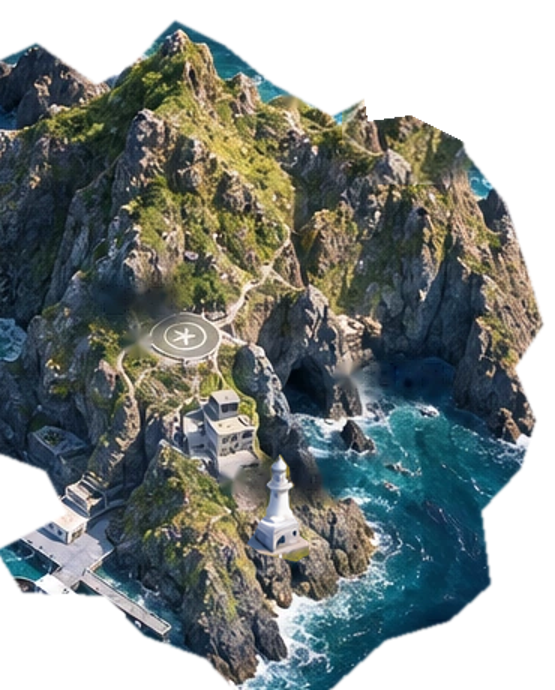
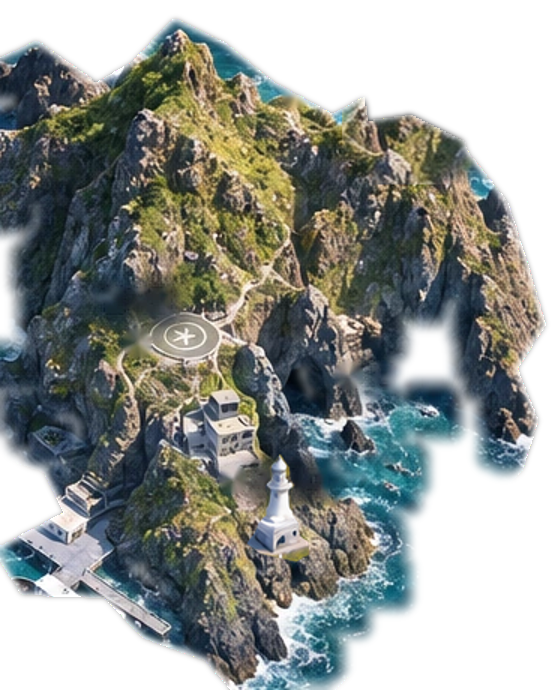
Fix lighthouse position/glow, light path start, add badges home view, live-share brag, question disputes, and facility overlay seam
- The lighthouse glow was rendering on a mountain peak, not the real
  tower. The actual building lives in the dongdo-facilities.png overlay
  (composited via facilities-overlay.json's affine transform), not the
  base art -- located its real lamp position there and moved the glow.
  Also simplified the glow to a core + soft halo, dropping the fanned
  beam wedges that read as unrealistic.
- The 500-credit Dongdo light path started at an arbitrary ring point;
  it now starts at Dongdo's summit (the topmost outline vertex) since
  every ring is a uniform scale of the same outline.
- Added the achievement badges grid to the home screen (previously only
  in My records).
- The "Share to the live chat" button now includes the player's
  nickname, correct-answer count and XP in the copied message, matching
  the updated disclaimer text (every other share stays anonymous).
- Added a "something wrong with this question?" report after answering,
  opening a small dialog that emails the question details to the
  channel's real contact address.
- The dongdo-facilities.png overlay's own baked-in sea color met the
  scene's background gradient in a hard, oddly-shaped cutout. Trimmed
  its alpha so open water beyond the coastline buffer fades out and the
  true background sea shows through instead.

diff --git a/dokdo-next/assets/app.css b/dokdo-next/assets/app.css
@@ -65,7 +65,8 @@ main{max-width:1530px;padding:30px 36px 36px;margin:auto;min-height:70vh}.sectio
 .lesson{max-width:830px;margin:auto;padding:15px 0}.lesson-top{display:flex;align-items:center;gap:20px;margin-bottom:28px}.lesson-top progress{flex:1;min-width:0;height:9px;border:0;border-radius:10px;background:#173648;overflow:hidden}.lesson-top progress::-webkit-progress-bar{background:#153144}.lesson-top progress::-webkit-progress-value{background:#f1c773;border-radius:10px}.lesson-top progress::-moz-progress-bar{background:#f1c773}.lesson-top>span{font-size:12px;color:var(--muted);white-space:nowrap}.lesson-context{display:flex;align-items:center;gap:14px;margin-bottom:22px;font-size:12px;color:#c4d5da}.pill{display:inline-flex;align-items:center;min-height:28px;padding:4px 10px;font-size:10px;border:1px solid #486762;border-radius:20px;color:#bbe0ca;background:#173730}.lesson h2{font-size:clamp(23px,3vw,33px);line-height:1.7;letter-spacing:-.05em;margin:20px 0 30px;word-break:keep-all;overflow-wrap:break-word}
 #teaching{border:1px solid #365668;border-radius:23px;background:#102c3e;padding:32px}.lesson #teaching h2{font-size:26px;margin:10px 0 22px}#teaching-text{font-size:21px;line-height:1.9;color:#d7e2e5;word-break:keep-all;margin-bottom:30px}#teaching .button{width:100%}
 .question-options{display:grid;gap:12px}.answer-option{display:flex;align-items:center;text-align:left;gap:17px;border:1px solid #35576b;border-radius:14px;min-height:68px;padding:17px 20px;background:#11293a;color:#e5ebeb;font-size:18px;line-height:1.65;word-break:keep-all}.answer-number{flex-shrink:0;display:grid;place-items:center;width:30px;height:30px;border-radius:8px;background:#254456;color:#b7cdd7;font:500 14px var(--heading)}.answer-option.correct{border-color:#91d2b7;background:#163a38;color:#e2f4e9}.answer-option.incorrect{border-color:#e69785;background:#392e34;color:#ffe7e1}.answer-option:disabled{opacity:1}.answer-mark{margin-left:auto;font-size:20px;flex-shrink:0}
-.question-feedback{margin-top:22px;padding:24px;background:#133343;border:1px solid #4b706e;border-radius:16px;line-height:1.9;font-size:16px}.question-feedback.bad{background:#332c34;border-color:#b57d74}.question-feedback h3{font-size:17px;margin-bottom:12px}.question-feedback small{font-size:11px;color:#b3c6cb;display:block;margin-top:13px}.question-actions{margin-top:20px;display:flex;justify-content:flex-end;gap:12px}.question-actions .button{min-width:170px}.question-material{background:#173747;border:1px solid #456371;border-radius:14px;padding:18px;margin-bottom:20px;font-size:16px;white-space:pre-line}
+.question-feedback{margin-top:22px;padding:24px;background:#133343;border:1px solid #4b706e;border-radius:16px;line-height:1.9;font-size:16px}.question-feedback.bad{background:#332c34;border-color:#b57d74}.question-feedback h3{font-size:17px;margin-bottom:12px}.question-feedback small{font-size:11px;color:#b3c6cb;display:block;margin-top:13px}
+.dispute-button{display:block;margin-top:10px;font-size:12px;color:#93b3bd}.question-actions{margin-top:20px;display:flex;justify-content:flex-end;gap:12px}.question-actions .button{min-width:170px}.question-material{background:#173747;border:1px solid #456371;border-radius:14px;padding:18px;margin-bottom:20px;font-size:16px;white-space:pre-line}
 .result-card{border:1px solid #4e6656;border-radius:24px;background:linear-gradient(145deg,#1a3e42,#0e2333);padding:42px;text-align:center}.result-card .result-star{font-size:48px;color:var(--gold)}.result-card h2{font-size:28px;margin:16px 0}.result-card p{color:#c9dadb;margin:14px 0}.result-card .result-score{font:500 35px var(--heading);color:var(--gold)}.result-card .button-row{justify-content:center;margin-top:26px}
 .share-row{border-top:1px solid #3a5a55;margin-top:28px;padding-top:22px}.share-row .button-row{justify-content:center;margin-top:12px}
 .species-card{display:grid;grid-template-columns:1fr 1.3fr;gap:30px;margin:26px 0;border:1px solid var(--line);background:#0d2636;border-radius:24px;padding:35px;align-items:center}.species-art{min-height:230px;border:1px solid #365568;border-radius:50% 50% 45% 45%;display:grid;place-items:center;background:radial-gradient(ellipse at center,#355f67,#143240 68%)}.species-art svg{width:90%}.species-card h2{margin:14px 0;font-size:28px}.species-card p{font-size:13px;color:#c1d1d7;line-height:1.9}.species-card .button{margin-top:18px}
@@ -74,7 +75,7 @@ main{max-width:1530px;padding:30px 36px 36px;margin:auto;min-height:70vh}.sectio
 .import-preview,.legacy-item{border:1px solid #6b7856;background:#24372e;border-radius:13px;padding:20px;margin-top:18px;font-size:13px}.legacy-item{background:#112e3e;border-color:#32566c}.import-preview p,.legacy-item p{margin:10px 0}.legacy-item .button{margin-top:12px}
 table{width:100%;border-collapse:collapse;font-size:12px}th,td{padding:11px 7px;text-align:left;border-bottom:1px solid #2b4352}th{color:#a4c0cb;font-weight:500}td:not(:first-child){text-align:right}th:not(:first-child){text-align:right}
 .site-footer{max-width:1530px;padding:25px 36px 38px;margin:auto;border-top:1px solid #243947;display:flex;align-items:center;justify-content:space-between;gap:20px;color:#87a6b5;font-size:11px}.site-footer>div{display:flex;align-items:center;gap:18px}.site-footer .text-button{font-size:11px;color:#adbfca}
-.dialog{color:var(--ink);background:linear-gradient(145deg,#173544,#081e2e);border:1px solid #59727c;max-width:min(540px,calc(100vw - 28px));width:100%;border-radius:22px;padding:28px;box-shadow:0 24px 100px #0008;max-height:calc(100dvh - 40px);overflow:auto}.dialog::backdrop{background:#010c19c9;backdrop-filter:blur(6px)}.dialog-top{display:flex;justify-content:space-between;align-items:center;margin-bottom:20px;gap:15px}.dialog h2{font-size:23px;margin-bottom:14px}.dialog-top h2{margin:0}.dialog p{font-size:13px;color:#bcd0d5;line-height:1.9}.dialog p.error{color:#ffb9aa}.dialog form>.button{width:100%;margin:10px 0}.dialog>.button{margin:15px 0}.field{display:block;margin:19px 0;font-size:12px;color:#c7dce0}.field>span{display:block;margin-bottom:8px}input:not([type=checkbox]):not([type=file]),select{width:100%;min-height:47px;padding:10px 13px;border-radius:9px;background:#071d2d;color:#e4eeeb;border:1px solid #486674}.check-row{display:flex;align-items:center;gap:11px;min-height:44px;margin:16px 0;font-size:12px;color:#d1e0e2}.check-row input{accent-color:var(--gold);height:18px;width:18px;flex-shrink:0}.wide-dialog{max-width:min(780px,calc(100vw - 28px))}.wide-dialog h3{font-size:17px;margin:22px 0 10px}.wide-dialog a{overflow-wrap:anywhere}.wide-dialog img{width:100%;border-radius:12px;margin:10px 0}
+.dialog{color:var(--ink);background:linear-gradient(145deg,#173544,#081e2e);border:1px solid #59727c;max-width:min(540px,calc(100vw - 28px));width:100%;border-radius:22px;padding:28px;box-shadow:0 24px 100px #0008;max-height:calc(100dvh - 40px);overflow:auto}.dialog::backdrop{background:#010c19c9;backdrop-filter:blur(6px)}.dialog-top{display:flex;justify-content:space-between;align-items:center;margin-bottom:20px;gap:15px}.dialog h2{font-size:23px;margin-bottom:14px}.dialog-top h2{margin:0}.dialog p{font-size:13px;color:#bcd0d5;line-height:1.9}.dialog p.error{color:#ffb9aa}.dialog form>.button{width:100%;margin:10px 0}.dialog>.button{margin:15px 0}.field{display:block;margin:19px 0;font-size:12px;color:#c7dce0}.field>span{display:block;margin-bottom:8px}input:not([type=checkbox]):not([type=file]),select,textarea{width:100%;min-height:47px;padding:10px 13px;border-radius:9px;background:#071d2d;color:#e4eeeb;border:1px solid #486674}textarea{resize:vertical}.check-row{display:flex;align-items:center;gap:11px;min-height:44px;margin:16px 0;font-size:12px;color:#d1e0e2}.check-row input{accent-color:var(--gold);height:18px;width:18px;flex-shrink:0}.wide-dialog{max-width:min(780px,calc(100vw - 28px))}.wide-dialog h3{font-size:17px;margin:22px 0 10px}.wide-dialog a{overflow-wrap:anywhere}.wide-dialog img{width:100%;border-radius:12px;margin:10px 0}
 .channel-contact{display:flex;flex-wrap:wrap;gap:8px 20px}.channel-links{display:grid;grid-template-columns:repeat(auto-fill,minmax(130px,1fr));gap:10px}.channel-links a{display:block;text-align:center;border:1px solid var(--line);border-radius:12px;padding:12px 8px;font-size:13px;color:#d7e7e8;text-decoration:none}.channel-links a:hover{border-color:var(--gold);color:var(--gold)}
 .toast{position:fixed;bottom:28px;left:50%;transform:translateX(-50%);z-index:100;border:1px solid #7a8c70;background:#142e35f5;box-shadow:0 12px 40px #0005;border-radius:14px;padding:15px 23px;color:#edf1dd;width:max-content;max-width:calc(100vw - 30px);font-size:13px;line-height:1.8}.warning,.demo-banner{padding:14px 24px;background:#453321;color:#ffe4b3;font-size:13px;border-bottom:1px solid #977253}.demo-banner{display:flex;gap:15px;justify-content:center;align-items:center;background:#173c43;color:#dcead8}.warning button{color:#ffedb8;text-decoration:underline;margin-left:15px}
 .legacy-banner{display:flex;justify-content:space-between;align-items:center;gap:16px;padding:18px 23px;border:1px solid #687555;background:#22362b;border-radius:15px;margin-bottom:20px}.legacy-banner strong{font-size:12px;font-weight:500}.legacy-banner p{font-size:11px;color:#c2d3bf;margin-top:5px}

diff --git a/dokdo-next/assets/app.js b/dokdo-next/assets/app.js
@@ -88,7 +88,13 @@ const en={
  tourismInfoBtn:'Ulleungdo·Dokdo travel info',
  resetRecord:'Reset this record',
  resetWarning:'Clears this device’s record and starts empty. Save a backup file above first, or remember your nickname#code so “Load a record from another device” can bring it back after resetting.',
- resetConfirm:'This clears every record on this device and cannot be undone here. Have you saved a backup, or do you have your nickname#code? Continue?'
+ resetConfirm:'This clears every record on this device and cannot be undone here. Have you saved a backup, or do you have your nickname#code? Continue?',
+ disputeButton:'Something wrong with this question?',
+ disputeTitle:'Report a question',
+ disputeHelp:'If you think this question, answer or explanation is wrong, let us know. Your email app opens with the question details already filled in.',
+ disputeReason:'What seems wrong? (optional)',
+ disputeSend:'Send by email',
+ disputeSent:'Opened your email app. Please review and send it.'
 };
 en.mapShapeNote='Dongdo is lower, with a comparatively level upper area. This authored comparison is not a surveyed 3D terrain or facility-position model.';
 let mode=document.querySelector('meta[name="dokdo-mode"]').content;
@@ -189,7 +195,7 @@ function renderHome(){
   const n=document.createElement('span');n.textContent=String(i).padStart(2,'0');const label=document.createElement('b');label.textContent=C.STAGES[language][i];el.append(n,label);$('journey-steps').append(el);}
  const evidence=p?C.courseEvidence(p,s.m,Core.dayKey()):{count:0,concepts:0};
  txt('journey-note',p?tr(`${C.trackName(p)} 경로 · 완료 ${evidence.completed}/12단원 · 다른 날 두 번 확인한 개념 ${evidence.count}/60개. 같은 개념의 다른 보기는 중복 진급으로 세지 않아요.`,`${C.trackName(p,'en')} · ${evidence.completed}/12 units complete · ${evidence.count}/60 concepts checked on two later days.`):tr('첫 수업 전에 나이대와 시작점을 고릅니다.','Choose an age band before your first lesson.'));
- renderVisitors();renderYoutubeCard();
+ renderVisitors();renderYoutubeCard();renderBadges(s);
  const olds=!isolated?M.legacyCandidates(storage):[];
  $('legacy-banner').hidden=!olds.length||a.questions>0||s.visual.importedFrom;
  $('arrange-beacon').disabled=!a.beacons;
@@ -451,7 +457,9 @@ async function choose(pick,skip=false){
   const note=document.createElement('small');note.textContent=q.mode==='placement'?tr('시작점 확인은 이어갑니다. 틀린 뒤에는 같은 단계나 더 쉬운 문제를 살펴봅니다.','The starting check continues, at the same or an easier level after a mistake.'):retry?tr('다시 확인한 정답은 점수나 숙달 증거로 중복 계산하지 않습니다.','Immediate corrections do not add duplicate points or mastery evidence.'):tr('불빛은 남습니다. 오래 기억했는지는 다른 날 복습으로 확인해요.','Your earned lights remain. Later review checks lasting recall.');
   const correctLine=document.createElement('p');correctLine.className='feedback-answer';correctLine.textContent=tr('정답: ','Answer: ')+q.item.choices[q.item.answer];
   const takeaway=document.createElement('p');takeaway.className='feedback-takeaway';takeaway.textContent=tr('기억할 독도 한 가지 · ','One Dokdo fact to remember · ')+q.item.fact;
-  $('question-feedback').append(head,correctLine,text,takeaway,note);
+  const report=document.createElement('button');report.type='button';report.className='text-button dispute-button';report.textContent=tr('이 문제가 이상한가요? 이의제기','Something wrong with this question?');
+  report.onclick=()=>openDispute(q.item);
+  $('question-feedback').append(head,correctLine,text,takeaway,note,report);
   $('retry-question').hidden=!q.needsRetry;$('next-question').hidden=q.needsRetry;
   txt('next-question',q.index+1===q.total?tr('결과 보기','See results'):tr('다음으로','Continue'));
   $('question-feedback').scrollIntoView({block:'nearest',behavior:'smooth'});
@@ -505,7 +513,7 @@ function shareTrack(channel){if(window.DokdoAnalytics)DokdoAnalytics.track('shar
 function shareButton(label,onClick){const b=document.createElement('button');b.className='button secondary';b.textContent=label;b.onclick=onClick;return b;}
 function renderShareRow(){
  const wrap=document.createElement('div');wrap.className='share-row';
- const label=document.createElement('p');label.className='fine';label.textContent=tr('독도 코리아 스쿨을 다른 사람에게 알려주세요. 나의 점수나 이름은 포함되지 않습니다.','Tell someone else about Dokdo Korea School. Your score and name are never included.');
+ const label=document.createElement('p');label.className='fine';label.textContent=tr('독도 코리아 스쿨을 다른 사람에게 알려주세요. "라이브에 공유하기"만 내 별명과 기록이 포함되고, 나머지는 점수·이름이 포함되지 않습니다.','Tell someone else about Dokdo Korea School. Only "Share to the live chat" includes your nickname and record — the rest never include your score or name.');
  const row=document.createElement('div');row.className='button-row';
  row.append(shareButton(tr('링크 복사','Copy link'),async()=>{
   shareTrack('link');const res=await DokdoShare.copyLink();
@@ -536,7 +544,9 @@ function renderShareRow(){
    // await -- Safari (and most browsers) silently block a popup opened
    // after an awaited promise, leaving a blank "about:blank" tab.
    window.open(yt.liveUrl||yt.channelUrl,'_blank','noopener');
-   const res=await DokdoShare.copyForChat();
+   const s=getS(),a=s?M.summary(s):null;
+   const brag=a?tr(`${a.name||tr('독도 코리아 스쿨','Dokdo Korea School')} · 정답 ${num(a.correct)}문제 · ${num(a.xp)} XP`,`${a.name||'Dokdo Korea School'} · ${num(a.correct)} correct · ${num(a.xp)} XP`):'';
+   const res=await DokdoShare.copyForChat(brag);
    toast(res.state==='copied'?tr('채팅용 한 줄을 복사했습니다. 라이브를 열어 붙여넣어 주세요.','Copied a one-line message for chat. Open the live stream and paste it there.'):tr('복사하지 못했습니다.','Could not copy the text.'));
   }));
  }
@@ -607,17 +617,22 @@ function renderRecords(){
  }
  renderLegacy();updateStorageStatus();renderCloudPanel(s);renderBadges(s);
 }
-function renderBadges(s){
- $('badges-grid').replaceChildren();
- if(!s){$('badges-count').textContent='';return;}
+function renderBadgesInto(s,gridId,countId){
+ const grid=$(gridId);if(!grid)return;
+ grid.replaceChildren();
+ if(!s){if($(countId))$(countId).textContent='';return;}
  const badges=M.computeBadges(s),earned=badges.filter(b=>b.earned).length;
- txt('badges-count',earned+' / '+badges.length);
+ if($(countId))txt(countId,earned+' / '+badges.length);
  for(const b of badges){
   const tile=document.createElement('div');tile.className='badge-tile'+(b.earned?' earned':'');
   const icon=document.createElement('span');icon.className='badge-icon';icon.setAttribute('aria-hidden','true');icon.textContent=b.icon;
   const name=document.createElement('b');name.textContent=tr(b.ko,b.en);
-  tile.append(icon,name);$('badges-grid').append(tile);
+  tile.append(icon,name);grid.append(tile);
  }
+}
+function renderBadges(s){
+ renderBadgesInto(s,'badges-grid','badges-count');
+ renderBadgesInto(s,'home-badges-grid','home-badges-count');
 }
 function renderCloudPanel(s){
  const configured=!!(window.DokdoLeaderboard&&DokdoLeaderboard.isConfigured());
@@ -920,6 +935,17 @@ $('open-sources').onclick=sources;$('footer-sources').onclick=sources;$('arrange
 })();
 $('open-tourism-info').onclick=()=>showDialog('tourism-dialog');
 $('open-channel-info').onclick=()=>showDialog('channel-info-dialog');
+let disputeItem=null;
+function openDispute(item){disputeItem=item;$('dispute-reason').value='';showDialog('dispute-dialog');}
+$('dispute-send').onclick=()=>{
+ if(!disputeItem)return;
+ const item=disputeItem,reason=$('dispute-reason').value.trim();
+ const subject=encodeURIComponent('[독도 코리아 스쿨] 문제 이의제기 - 문항 '+item.id);
+ const body=encodeURIComponent('문항 ID: '+item.id+'\n문제: '+item.q+'\n정답으로 표시된 보기: '+item.choices[item.answer]+'\n\n의견:\n'+(reason||'(작성 없음)'));
+ location.href='mailto:officialdokdokorea@gmail.com?subject='+subject+'&body='+body;
+ closeDialog('dispute-dialog');
+ toast(tr('이메일 앱을 열었습니다. 내용을 확인하고 보내주세요.','Opened your email app. Please review and send it.'));
+};
 $('tourism-go').onclick=()=>toast(tr('현재 준비 중입니다.','This is being prepared right now.'));
 $('sound').onclick=toggleSound;$('save-image').onclick=saveImage;
 $('zoom').onclick=()=>{const on=$('canvas-shell').classList.toggle('zoomed');$('zoom').setAttribute('aria-pressed',String(on));txt('zoom',on?tr('전체 보기','Fit'):tr('확대','Zoom'));if(on)$('canvas-shell').scrollLeft=$('canvas-shell').scrollWidth*.22;};

diff --git a/dokdo-next/assets/scene.js b/dokdo-next/assets/scene.js
@@ -22,12 +22,13 @@ function shoreAnchor(poly,pick,island,nudge){
  let v=poly[0];for(const q of poly)if(pick(q,v))v=q;
  const c=centers[island];return [v[0]+(c[0]-v[0])*nudge,v[1]+(c[1]-v[1])*nudge];
 }
-// The real dokdo-islands.webp art (1536x704, same pixel space as this canvas)
-// already draws an actual lighthouse building partway down Dongdo's eastern
-// shoulder -- measured directly from the image (bright-pixel crop inspection),
-// not guessed. Only its lamp position matters here; the tower itself is the
-// artwork's, not ours to redraw.
-const LIGHTHOUSE=[1300,197];
+// The actual lighthouse building lives in the dongdo-facilities.png overlay
+// (composited onto the base art via the facilities-overlay.json affine
+// transform, not drawn straight from dokdo-islands.webp) -- its lamp room
+// was located in that overlay's own pixel space, then mapped through the
+// same transform used to place the overlay, landing here. Only its lamp
+// position matters; the tower itself is the artwork's, not ours to redraw.
+const LIGHTHOUSE=[1223,478];
 // The pier is where the boat docks -- it stays right on the coastline
 // (nudge 0, then slightly out) so it is never drawn over by the island art.
 const PIER=shoreAnchor(ART.east,(a,b)=>a[0]<b[0],1,-.04);
@@ -139,16 +140,15 @@ function lighthouse(x,px,py,darkness,t){
  if(darkness<=.1)return;
  x.save();x.translate(px,py);
  const pulse=.6+.4*Math.sin(t*2.2),glow=darkness*pulse;
+ // Two circles only -- a bright core and one large soft halo. A fanned-out
+ // beam read as unrealistic (reported as not convincing) and is gone.
+ x.globalAlpha=.22*glow;x.fillStyle='#ffe9ab';
+ x.beginPath();x.arc(0,0,150,0,Math.PI*2);x.fill();
+ x.globalAlpha=1;
  x.fillStyle='#fff8e0';x.shadowColor='#ffe9ab';x.shadowBlur=90*glow;
  x.beginPath();x.arc(0,0,4+3*pulse,0,Math.PI*2);x.fill();
  x.shadowBlur=55*glow;x.beginPath();x.arc(0,0,4+3*pulse,0,Math.PI*2);x.fill();
  x.shadowBlur=0;
- x.globalAlpha=.4*glow;x.fillStyle='#ffe9ab';
- x.beginPath();x.moveTo(0,0);x.lineTo(-330,-190);x.lineTo(-330,60);x.closePath();x.fill();
- x.beginPath();x.moveTo(0,0);x.lineTo(330,-190);x.lineTo(330,60);x.closePath();x.fill();
- x.globalAlpha=.18*glow;
- x.beginPath();x.arc(0,0,150,0,Math.PI*2);x.fill();
- x.globalAlpha=1;
  x.restore();
 }
 function boat(x,px,py,angle,alpha){
@@ -205,8 +205,19 @@ function drawLights(x,s){
 // Durable progress is separate from the decorative route coordinates.
 const Journey=typeof module==='object'&&module.exports?require('./journey.js'):globalThis.DokdoJourney;
 const Solar=typeof module==='object'&&module.exports?require('./solar.js'):globalThis.DokdoSolar;
+// Every ring is ART.east/ART.west uniformly scaled toward its own center, so
+// an arc-length fraction on the base outline lands on the same vertex at any
+// ring radius. Dongdo's light path should start at its summit (the topmost
+// outline vertex) rather than wherever the old fixed .06 offset happened to
+// land, so the very first credit lights up there.
+function arcFractionOfVertex(poly,idx){let total=0,upto=0;
+ for(let i=0;i<poly.length;i++){const a=poly[i],b=poly[(i+1)%poly.length],d=Math.hypot(b[0]-a[0],b[1]-a[1]);if(i<idx)upto+=d;total+=d;}
+ return upto/total;
+}
+function topmostIndex(poly){let idx=0;for(let i=1;i<poly.length;i++)if(poly[i][1]<poly[idx][1])idx=i;return idx;}
+const ROUTE_START=[.06,arcFractionOfVertex(ART.east,topmostIndex(ART.east))];
 const ROUTES=[0,1].map(island=>Array.from({length:500},(_,i)=>{
- let p=arc(rings[island][10-2*Math.floor(i/100)],(i%100)/100+.06);
+ let p=arc(rings[island][10-2*Math.floor(i/100)],(i%100)/100+ROUTE_START[island]);
  for(let k=0;k<20&&!inside(p,[ART.west,ART.east][island]);k++)p=[(p[0]+centers[island][0])/2,(p[1]+centers[island][1])/2];
  return p;
 }));

diff --git a/dokdo-next/index.html b/dokdo-next/index.html
@@ -152,6 +152,7 @@
   <article class="stat-card"><span class="stat-icon" aria-hidden="true">▤</span><div><p data-i18n="lifetime">누적 정답</p><strong id="correct-count" class="mono">0</strong><small id="weekly-count">이번 주 0</small></div></article>
   <article class="stat-card"><span class="stat-icon mint" aria-hidden="true">♧</span><div><p data-i18n="discoveries">생명과 만난 기록</p><strong id="bird-count" class="mono">0</strong><small data-i18n="gullJournal">괭이갈매기 도감</small></div><button class="text-button" data-view="journal" data-i18n="openJournal">도감 보기</button></article>
  </div>
+ <section class="record-panel home-badges"><div class="card-heading"><h2 data-i18n="badgesTitle">성취 배지</h2><span id="home-badges-count" class="fine"></span></div><div id="home-badges-grid" class="badges-grid"></div></section>
  <div class="home-lower">
   <section class="journey-card"><div class="card-heading"><h2 data-i18n="journey">나의 배움 여정</h2><span id="xp-label" class="mono">0 XP</span></div><div id="journey-steps" class="journey-steps"></div><p id="journey-note" class="fine"></p></section>
   <section class="life-card"><div class="card-heading"><h2 data-i18n="seaVisitors">전설의 강치 부르기</h2><span id="visitor-status">0 / 10</span></div><p data-i18n="visitRule">정답 보상을 모아 강치를 부르면, 두 섬 사이에서 1분 동안 함께해요.</p><div class="gangchi-gauge"><progress id="gangchi-progress" value="0" max="5"></progress><small id="gangchi-progress-label"></small></div><div class="invite-row"><label><span class="sr-only" data-i18n="visitCount">부를 강치 수</span><select id="invite-count"><option value="1">1</option><option value="3">3</option><option value="5">5</option><option value="10">10</option></select></label><button id="invite" class="button secondary invite-button" data-i18n="invite">강치 부르기</button><small id="invite-credit"></small></div></section>
@@ -318,6 +319,12 @@
   <a href="https://www.tiktok.com/@dokdo.korea" target="_blank" rel="noopener noreferrer">TikTok</a>
   <a href="https://open.kakao.com/o/pFAjzXXh" target="_blank" rel="noopener noreferrer">카카오 오픈채팅</a>
  </div>
+</dialog>
+<dialog id="dispute-dialog" class="dialog">
+ <div class="dialog-top"><h2 data-i18n="disputeTitle">문제 이의제기</h2><button type="button" class="icon-button" data-close="dispute-dialog" aria-label="닫기">×</button></div>
+ <p data-i18n="disputeHelp">이 문제나 정답, 해설이 잘못되었다고 생각되면 알려주세요. 이메일 앱이 열리며, 문항 정보가 자동으로 채워집니다.</p>
+ <label class="field"><span data-i18n="disputeReason">무엇이 이상한가요? (선택)</span><textarea id="dispute-reason" rows="4"></textarea></label>
+ <button id="dispute-send" class="button primary" data-i18n="disputeSend">이메일로 보내기</button>
 </dialog>
 </body>
 </html>

diff --git a/dokdo-next/assets/share.js b/dokdo-next/assets/share.js
@@ -32,7 +32,7 @@ async function copyLink(){const m=shareMeta();return copyText(m.title+'\n'+m.url
 /* Live chat text must stay on one line -- YouTube Live chat strips
  * newlines and runs words together otherwise (per the operator's own
  * V1 notes). */
-async function copyForChat(){const m=shareMeta();return copyText(m.title+' · '+m.url);}
+async function copyForChat(brag){const m=shareMeta();const prefix=brag?brag+' · ':'';return copyText(prefix+m.title+' · '+m.url);}
 function nativeShareSupported(){return typeof navigator.share==='function';}
 async function nativeShare(){
  if(!nativeShareSupported())return{state:'not_supported'};
